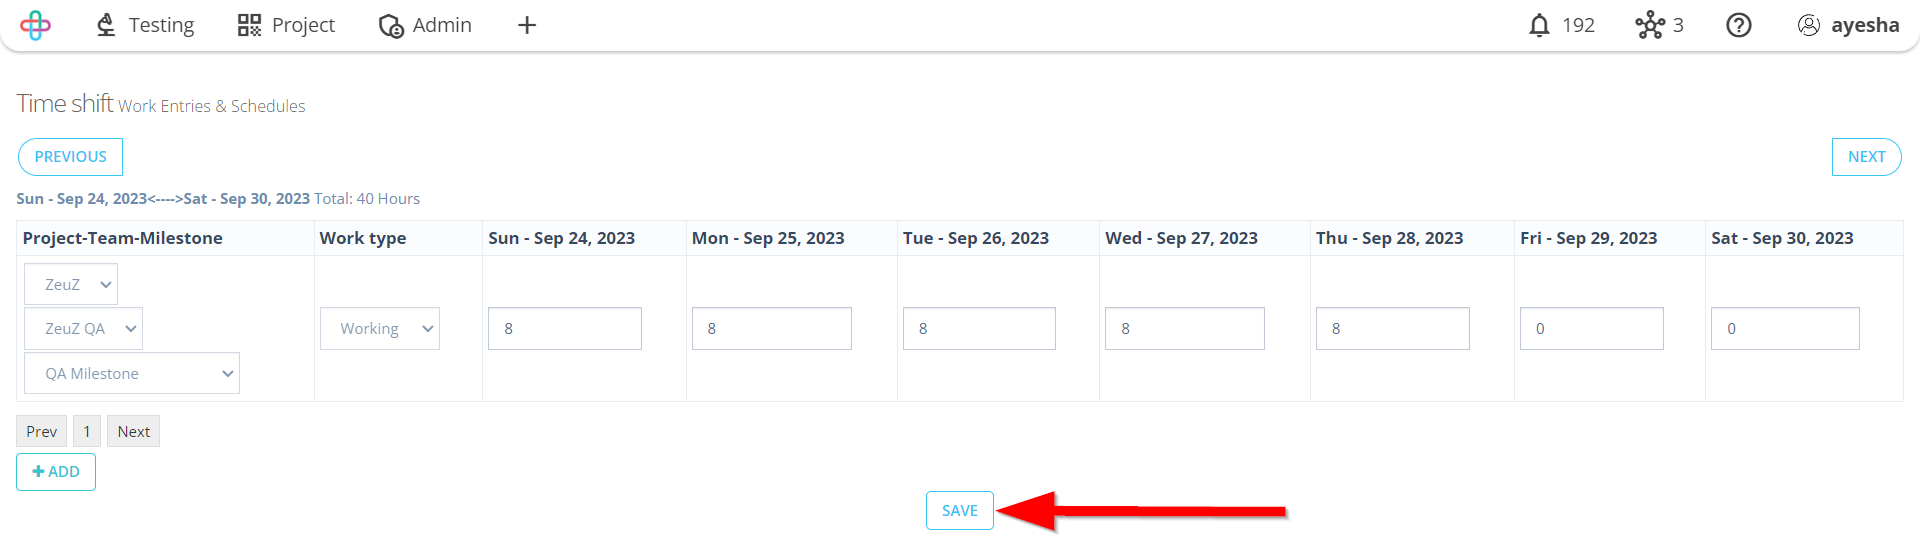
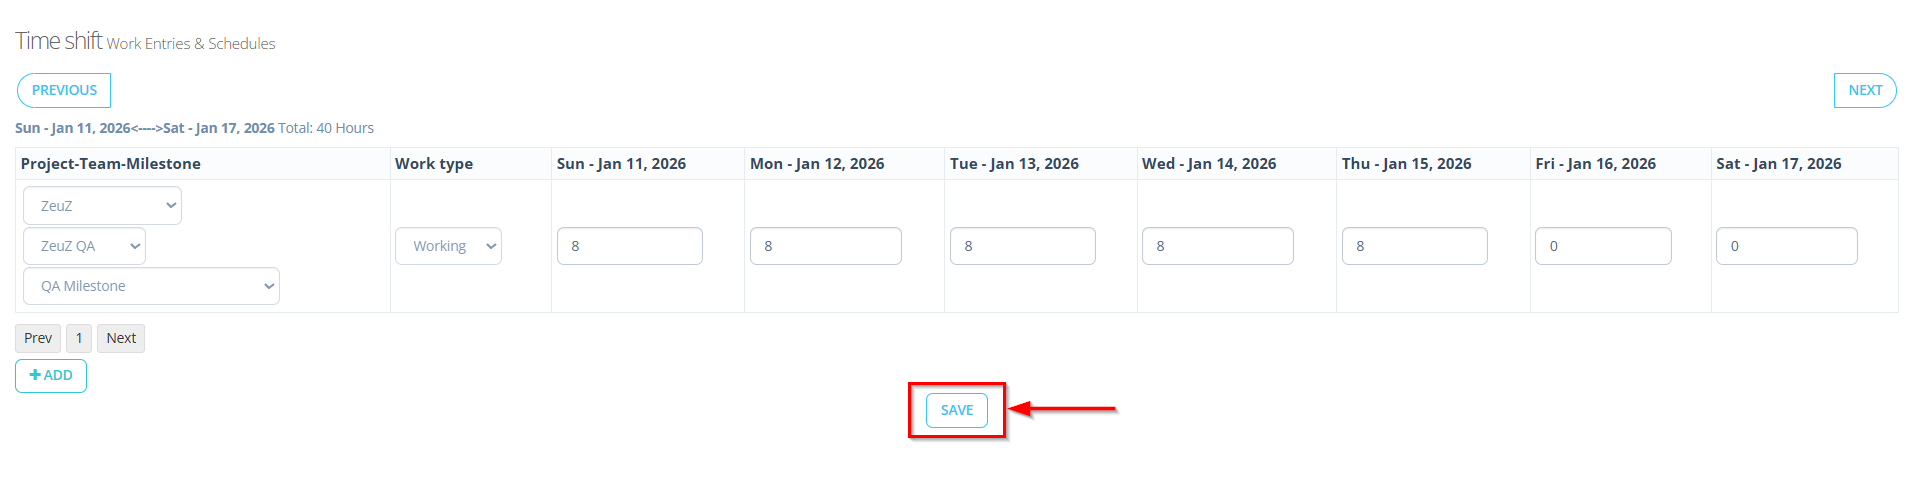
project docs

diff --git a/docs/zeuz-server/Project/Others/how-to-setup-work-schedule.md b/docs/zeuz-server/Project/Others/how-to-setup-work-schedule.md
@@ -1,81 +1,106 @@
 ---
 id: how-to-setup-work-schedule
-title: Setting Up Work Schedule
+title: Time Shift
 ---
 
-### What is the meaning of Work Schedule in software testing?
+import MetaCard from '@site/src/components/MetaCard';
 
-In software testing, a **Work Schedule** is a structured plan that defines the timeline for various testing activities and tasks within a testing project. It specifies when and how different testing activities, such as test case creation, execution, and reporting, will be carried out.  
-**Work Schedules** help project teams like allocate resources, manage time effectively, and meet project deadlines. They are essential and coordinating the testing process to ensure its successful completion.
+The **Time Shift** provides a weekly view that allows users to select a project, team, and milestone, define the type of work, and record planned or actual working hours for each day within a selected date range. This helps teams systematically track, monitor, and manage work effort in an organized and structured manner.
 
-### Importance of Work Schedule in software testing
+<MetaCard
+  availableFrom="20250518"
+  difficulty="🟢 Easy"
+  lastUpdated="06 Jan, 2025"
+  relatedTopics={["Worklog"]}
+/>
 
-A **Work Schedule** is indispensable in software testing due to its multifaceted role. It facilitates effective time management for testers, allowing them to prioritize tasks and meet deadlines efficiently. 
+### Why it matters / Use Cases:
+- **Accurate Work Tracking**: It enables teams to record planned and actual hours, ensuring visibility in daily and weekly work effort.
+- **Improved Project Planning**: By analyzing time allocations, project managers can more accurately estimate 
+project timelines and optimize resource distribution.
+- **Performance Monitoring**: It helps identify workload imbalances, such as overutilized or underutilized team members.
+- **Milestone Progress Validation**: Recorded hours can be evaluated against milestones to determine if project objectives are progressing as planned.
+- **Reporting and Analysis**: Time data can be utilized for analyzing effort, conducting audits, and generating management reports within the platform.
 
-Additionally, it aids in resource allocation and tracking progress, ensuring that testing phases adhere to predetermined timelines. This schedule acts as a vital communication tool, reducing misunderstandings within the team and enhancing collaboration. It also plays a pivotal role in risk management, allowing for proactive measures to mitigate potential delays or issues. Moreover, it contributes to quality assurance by providing adequate time for thorough testing, ultimately improving software quality.  
+## Prerequisites  
+- Access to ZeuZ Server with permissions for **Project → Others → Work Schedule**.
+- A project, the relevant team, and the milestone under which the work is being tracked must be selected from 
+their respective dropdowns to accurately associate and track the work entries.
+- The type of work must be specified (e.g., `Working`, `Vacation`, `Sick`, `Training`) for proper categorization.
+- Planned or worked hours for each day must be entered in the provided fields to reflect effort.
 
-Finally, adhering to a **Work Schedule** helps meet client expectations and maintain satisfaction by delivering projects on time.
+## Quick-Start
+1. First, click the **MORE** option available at the top-right corner of the "Work Schedules" page.
+2. Then, click the **TIME SHIFT** option.
 
-### What is the purpose of setting Work Schedule in software testing?
+## Features
+- Navigate to the **Time shift** page.
+- At the top, navigation buttons allow users to move between **PREVIOUS** and **NEXT** weeks, while the 
+selected date range and total logged hours are displayed.
+- On the left side, dropdown fields are provided to select the **Project**, **Team**, and **Milestone**, ensuring that the recorded work is linked to the correct context.
+- A **Work type** dropdown is also available, allowing users to categorize the time as `Working`, `Vacation`, `Sick`, or `Training`.
+- The main section presents a weekly grid from **Sunday** to **Saturday**, where users can enter planned or 
+actual hours for each day.
+- The highlighted column indicates the currently selected day.
+- Additional rows can be added using the **+ ADD** button.
+- All entered data can be saved using the **SAVE** button.
 
-A **Work Schedule** in software testing serves multiple essential purposes.  
-**Firstly**, it facilitates effective time management, ensuring that testing tasks align with project timelines.  
+![](/img/how-tos/how-to-setup-work-schedule/time-shift.png)
 
-**Secondly**, it aids in resource allocation, optimizing productivity by distributing resources efficiently.  
+![](/img/how-tos/how-to-setup-work-schedule/work-type.png)
 
-**Thirdly**, it enables progress tracking, helping teams identify delays and take corrective actions promptly.  
+![](/img/how-tos/how-to-setup-work-schedule/weekly-hours.png)
 
-**Additionally**, the schedule acts as a communication tool, reducing misunderstandings among team members. It also supports risk management by proactively addressing potential issues. Quality assurance benefits from the schedule by allocating ample time for thorough testing and defect resolution.  
+![](/img/how-tos/how-to-setup-work-schedule/highlighted-column.png)
 
-**Lastly**, meeting client expectations and delivering projects on time is crucial for client satisfaction and maintaining a positive reputation in industry.
-
-## Steps
-
-1. From the **Menu bar**, go to the **Project** then **Work Schedule** option.
-
-![](/img/how-tos/how-to-setup-work-schedule/work-schedule.png)
-
-2. Go to the **Work Schedules** page.
-3. Click on the **MORE** option.
-   > Clicking on the *MORE* option typically provides access to additional settings and functionalities, allowing users to customize and manage their schedules more comprehensively.
-4. Then click on the **TIME SHIFT** option.
-   > The *TIME SHIFT* function allows users to adjust or offset the scheduled time for tasks or activities, accomodating different time zones or specific scheduling needs.
-
-![](/img/how-tos/how-to-setup-work-schedule/more-time.png)
-
-5. Go to the **Time Shift** page.
-6. Select the **Project**, **Team** and **Milestone**.
-   > Selecting the *Project*, *Team* and *Milestone* ensures that tasks are properly allocated, tracked, and meet project-specific objectives and timelines.
-7. Select the **Work type**.
-   > Selecting the *Work type* helps categorize tasks and allocate resources efficiently based on the nature of the work, such as testing, development, or documentation. 
-8. Enter the **Working hours**.
-   > Entering *Working hours* is essential to accurately plan and track the time spent on different tasks, ensuring efficient project management and resource allocation.
-
-![](/img/how-tos/how-to-setup-work-schedule/work-project.png)
-
-9. Click on the **SAVE** button.
+![](/img/how-tos/how-to-setup-work-schedule/add-row.png)
 
 ![](/img/how-tos/how-to-setup-work-schedule/save-work.png)
 
-10. If it is needed to add another work schedule then click on the **ADD** button.
-    > Adding another *Work Schedule* may be necessary to accommodate different project phases, teams, or specific tasks that require unique time allocations and resource management.
+## FAQs / Troubleshooting
 
-    > The *ADD* button allows you to create new work schedule entries to specify working hours and allocate resources efficiently for various tasks in software testing.
+<details>
+<summary>Why am I unable to enter hours in the Time Shift grid?</summary>
 
-![](/img/how-tos/how-to-setup-work-schedule/add-button.png)
+This usually occurs when the Project, Team, or Milestone is not selected. All three must be chosen before hours can be entered.
 
-11. Again go back to the **Work Schedules** page.
-12. Select the **User**.
-    > Selecting the *User* is essential to aasign specific team members to work on designated tasks, ensuring proper resource allocation in software testing.
-13. Select the **Start Date** and **End Date**.
-    > Selecting *Start Date* and *End Date* defines the timeframe for which the schedule applies, aiding in effective planning and resource allocation.
+</details>
 
-![](/img/how-tos/how-to-setup-work-schedule/work-save.png)
+<details>
+<summary>Why is the total hours value showing as zero?</summary>
 
-14. Click on the **GET WORK SCHEDULE** button.
-    > The *GET WORK SCHEDULE* button retrieves and displays the scheduled work hours for a specified user within the selected date range, facilitating resource management and workload tracking.
+The total remains zero if no hours are entered or if the entered values are not saved. Users must click the **Save** button to update the total hours.
 
-![](/img/how-tos/how-to-setup-work-schedule/get-work.png)
+</details>
 
-![](/img/how-tos/how-to-setup-work-schedule/work-log.png)
+<details>
+<summary>Why are my previously entered hours not visible?</summary>
 
+This may happen if the user is viewing a different date range. Ensure the correct week is selected using the 
+**Previous** and **Next** navigation buttons.
+
+</details>
+
+<details>
+<summary>What should be done if the Save button does not store the entries?</summary>
+
+Users should verify that all required fields are filled correctly and that valid numeric values are entered for hours before saving.
+
+</details>
+
+<details>
+<summary>Why is the wrong work type recorded?</summary>
+
+The Work Type must be selected before entering hours to ensure correct categorization.
+
+</details>
+
+## Changelog
+
+- New UI has been introduced [[20250518](/blog/zeuz-platform-20250518/)]
+
+## Related Topics
+
+- [Worklog](https://docs.zeuz.ai/docs/zeuz-server/Project/Reports/how-to-create-a-worklog/)
+
+---

diff --git a/docs/zeuz-server/testing/Test Case/search.md b/docs/zeuz-server/testing/Test Case/search.md
@@ -161,4 +161,9 @@ Ensure that your project contains an indexed list of test cases, and use more sp
 - [Create folders and features](https://docs.zeuz.ai/docs/zeuz-server/testing/Test%20Case/create-folders-and-features/)
 - [Move test cases to folder and feature](https://docs.zeuz.ai/docs/zeuz-server/testing/Test%20Case/move-test-cases-to-folder-and-feature/)
 
+## Folder Management
+
+- [Create folders and features](https://docs.zeuz.ai/docs/zeuz-server/testing/Test%20Case/create-folders-and-features/)
+- [Move test cases to folder and feature](https://docs.zeuz.ai/docs/zeuz-server/testing/Test%20Case/move-test-cases-to-folder-and-feature/)
+
 ---
